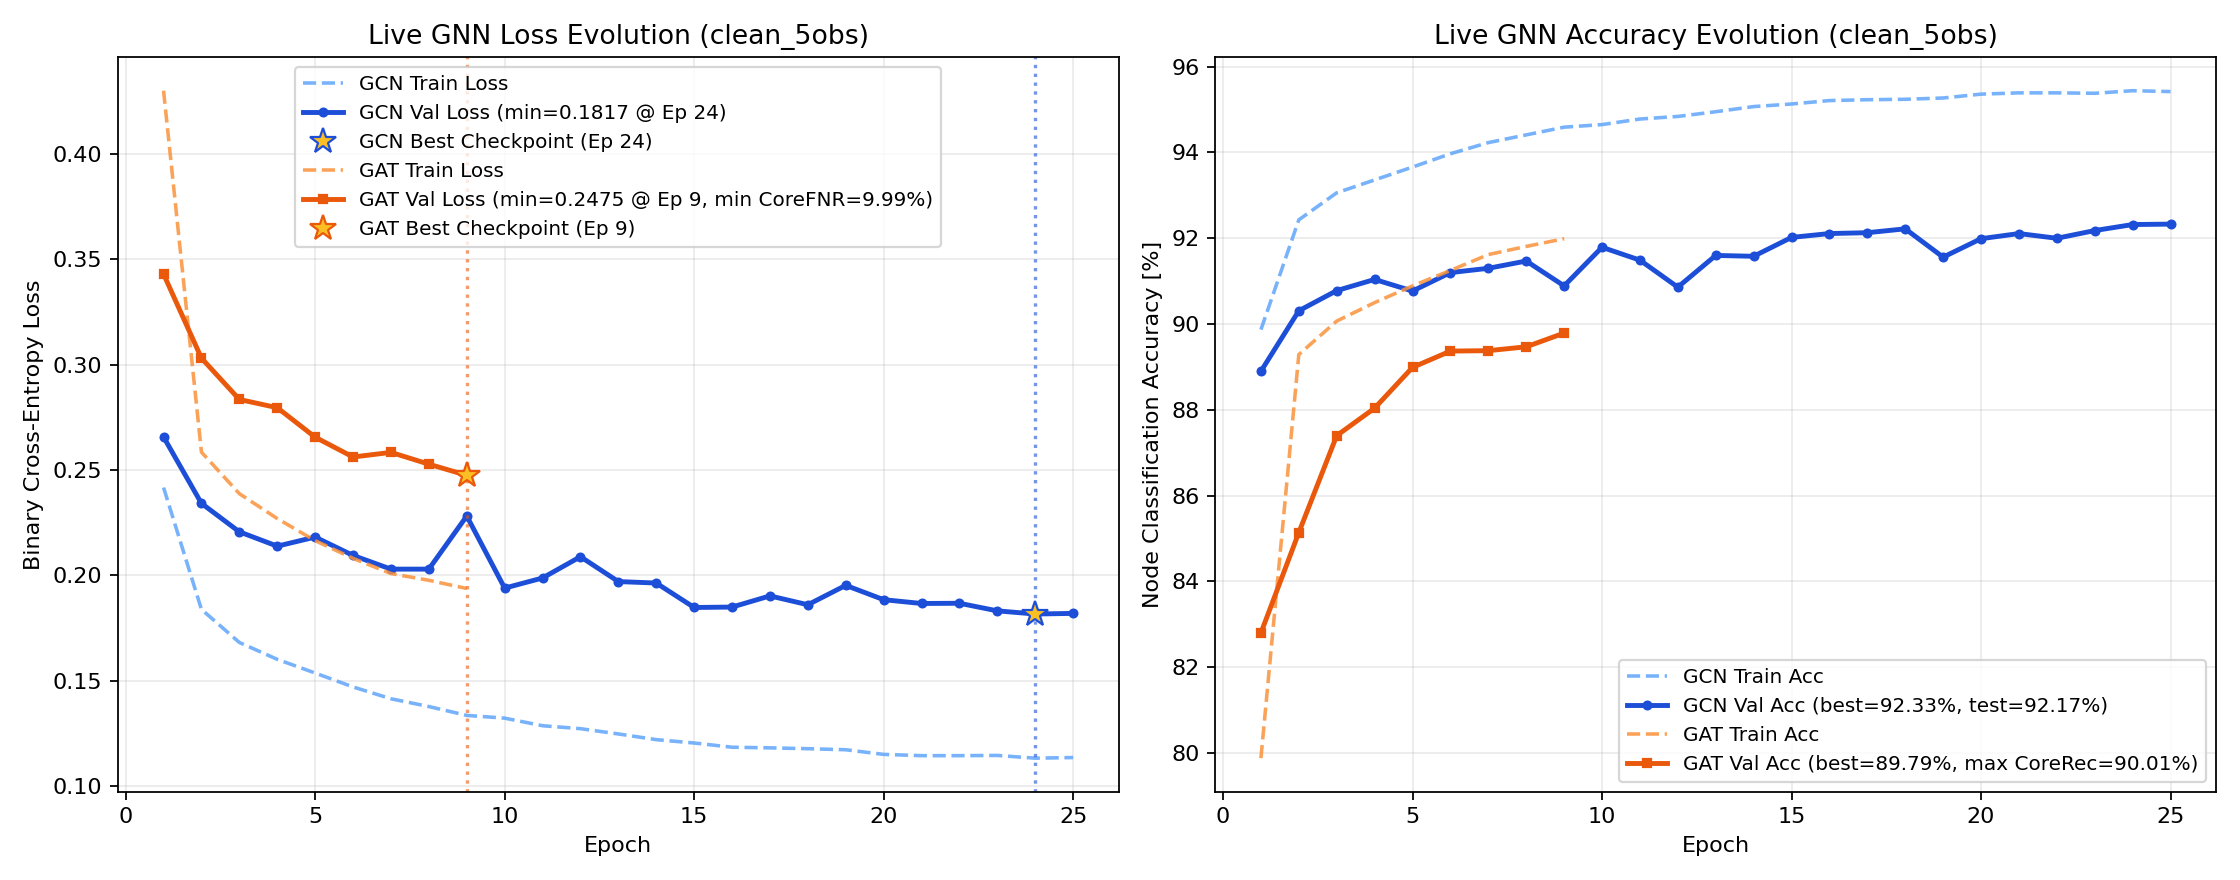
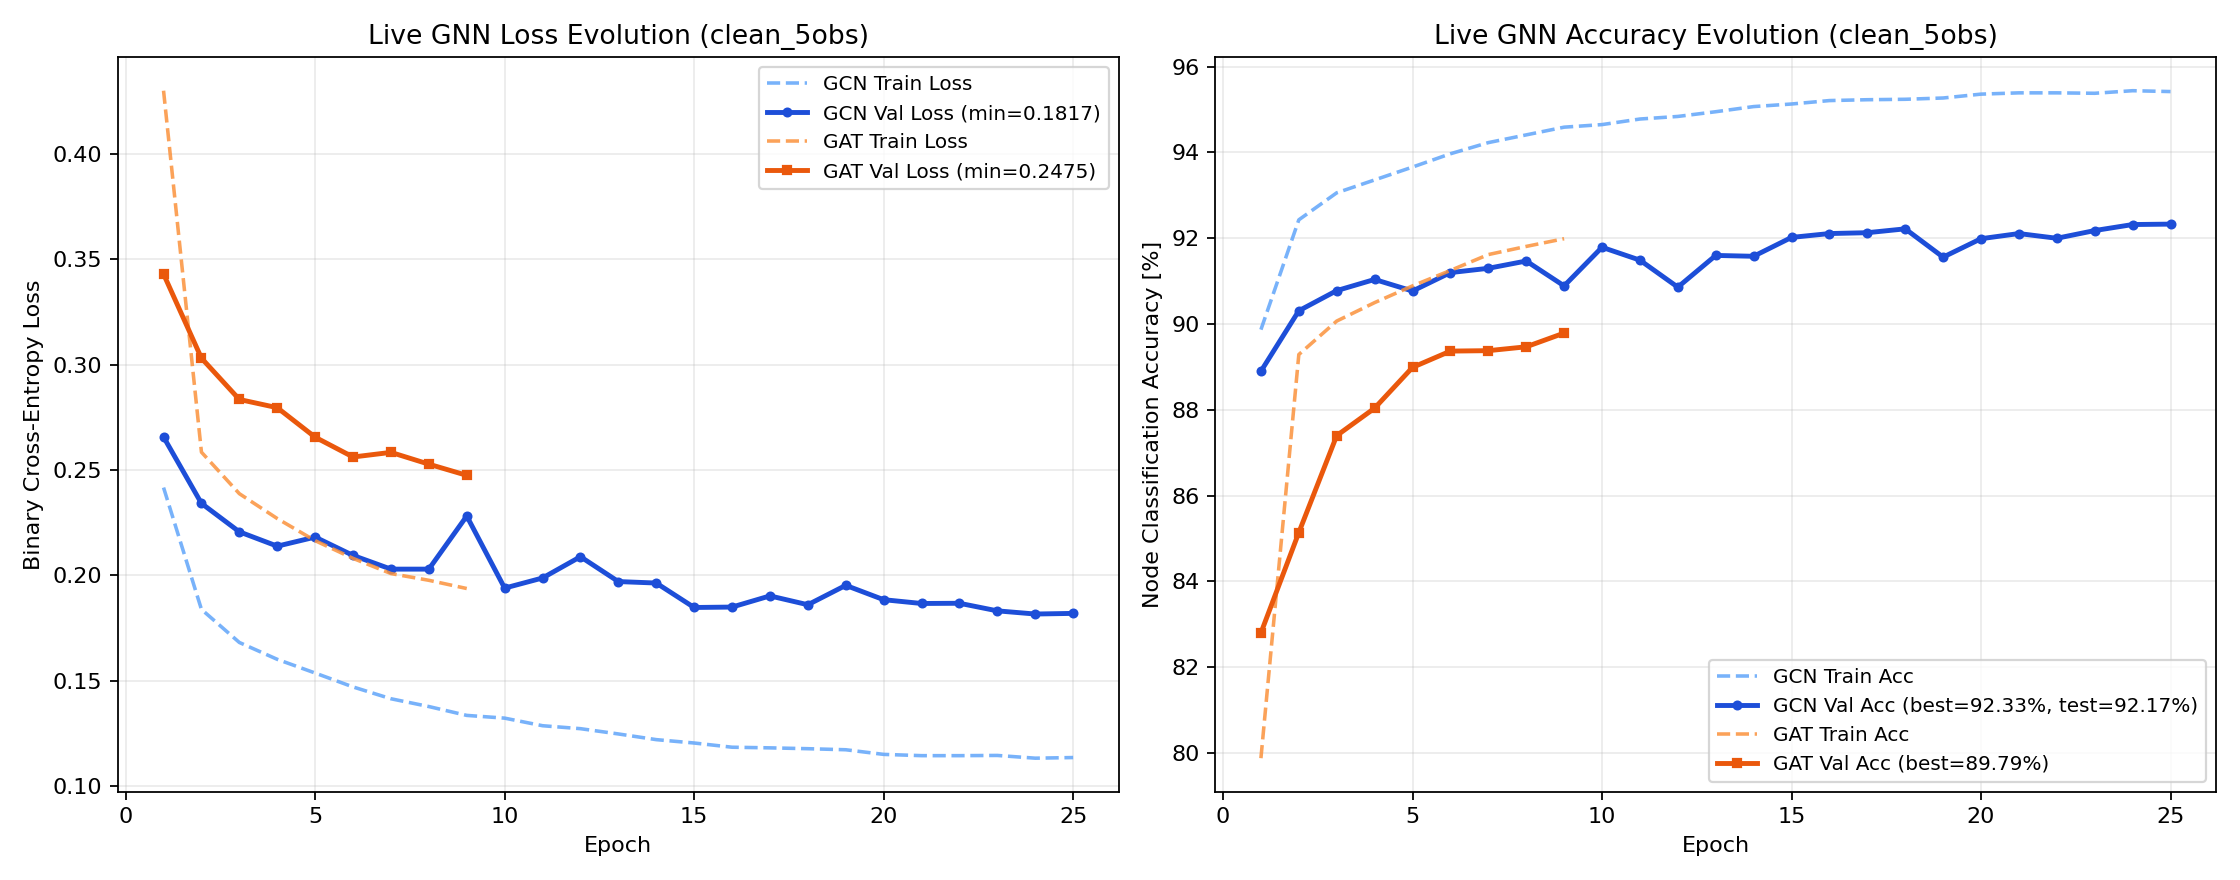
Update Study 2 live status and figures (2026-11-12 21:45)

diff --git a/LIVE_STATUS.md b/LIVE_STATUS.md
@@ -1,44 +1,30 @@
 # Live Pipeline Status on Jed
 
 ```text
-[2026-11-12 21:40:22] Study 2 Pipeline Status on Jed
+[2026-11-12 21:45:10] Study 2 Pipeline Status on Jed
 - Step 1 (Plummer ICs): 81 / 81 ready
 - Step 2 (SWIFT Runs): 81 / 81 completed (101 snapshots)
 - Step 3 (Observables): Labels=81/81 | Clean=81/81 | GaiaNoisy=81/81
 - Step 4 (5D Graphs): Clean=81/81 | GaiaNoisy=81/81
 - Step 5/6 Live GNN Training Progress:
-  * clean_5obs/training_metrics_gat_clean.log: Ep 009 | Train 0.1938 (91.99%) | Val 0.2475 (89.79%, Best=89.79%) | CoreFNR: 11.08% (min=9.99%) | Test=In progress
+  * clean_5obs/training_metrics_gat_clean.log: Ep 009 | Train 0.1938 (91.99%) | Val 0.2475 (89.79%, Best=89.79%) | Test=In progress
   * clean_5obs/training_metrics_gcn_clean.log: Ep 025 | Train 0.1136 (95.42%) | Val 0.1820 (92.33%, Best=92.33%) | Test=92.17%
   * legacy/clean_5obs_static_5rot/training_metrics_gcn_clean.log: Ep 025 | Train 0.1136 (95.42%) | Val 0.1820 (92.33%, Best=92.33%) | Test=92.17%
-- Saved Model Checkpoints (.pth): 8 mirrored in GNN-jed/trained_models/study2/weights/
 
 SLURM Queue:
 JOBID  PARTITION                   NAME   ST       TIME  NODES NODELIST(REASON)
       41146836   academic Study2_Step7_GCNStocha   PD       0:00      2 (Dependency)
 41146835_[0-4%   academic      Study2_Step6_4Obs   PD       0:00      2 (Dependency)
-      41146834   academic   Study2_Step5_Train81    R    6:56:06      2 jst[317,320]
+      41146834   academic   Study2_Step5_Train81    R    6:59:29      2 jst[317,320]
 ```
 
 ## Live Neural Network Training Metrics
 
-| Experiment | Architecture | Latest Epoch | Train Loss | Train Acc | Val Loss | Val Acc | Best Val Acc | Core FNR | Test Acc | Test F1 |
-| :--- | :---: | :---: | :---: | :---: | :---: | :---: | :---: | :---: | :---: | :---: |
-| `clean_5obs` | **GAT** | 9 | 0.1938 | 91.99% | 0.2475 | 89.79% | **89.79%** | 9.99% (val min) | **In progress** | - |
-| `clean_5obs` | **GCN** | 25 | 0.1136 | 95.42% | 0.1820 | 92.33% | **92.33%** | - | **92.17%** | 0.8886 |
-| `clean_5obs_static_5rot` | **GCN** | 25 | 0.1136 | 95.42% | 0.1820 | 92.33% | **92.33%** | - | **92.17%** | 0.8886 |
-
-## Saved Model Weights (`.pth` Checkpoints)
-
-| Checkpoint | Size | Experiment Path | Central Archive Mirror |
-| :--- | :---: | :--- | :--- |
-| `best_gat_clean.pth` | 361.2 KB | `GNN-jed/trained_models/study2/clean_5obs/best_gat_clean.pth` | `GNN-jed/trained_models/study2/weights/best_gat_clean.pth` |
-| `best_gat_clean_ep18_backup.pth` | 361.2 KB | `GNN-jed/trained_models/study2/clean_5obs/best_gat_clean_ep18_backup.pth` | `GNN-jed/trained_models/study2/weights/best_gat_clean_ep18_backup.pth` |
-| `best_gcn_clean.pth` | 120.0 KB | `GNN-jed/trained_models/study2/clean_5obs/best_gcn_clean.pth` | `GNN-jed/trained_models/study2/weights/best_gcn_clean.pth` |
-| `best_gat_clean_ep18_backup.pth` | 361.2 KB | `GNN-jed/trained_models/study2/legacy/clean_5obs_static_5rot/best_gat_clean_ep18_backup.pth` | `GNN-jed/trained_models/study2/weights/best_gat_clean_ep18_backup.pth` |
-| `best_gcn_clean.pth` | 120.0 KB | `GNN-jed/trained_models/study2/legacy/clean_5obs_static_5rot/best_gcn_clean.pth` | `GNN-jed/trained_models/study2/weights/best_gcn_clean.pth` |
-| `best_gat_clean.pth` | 361.2 KB | `GNN-jed/trained_models/study2/legacy/weights/best_gat_clean.pth` | `GNN-jed/trained_models/study2/weights/best_gat_clean.pth` |
-| `best_gat_clean_ep18_backup.pth` | 361.2 KB | `GNN-jed/trained_models/study2/legacy/weights/best_gat_clean_ep18_backup.pth` | `GNN-jed/trained_models/study2/weights/best_gat_clean_ep18_backup.pth` |
-| `best_gcn_clean.pth` | 120.0 KB | `GNN-jed/trained_models/study2/legacy/weights/best_gcn_clean.pth` | `GNN-jed/trained_models/study2/weights/best_gcn_clean.pth` |
+| Experiment | Architecture | Latest Epoch | Train Loss | Train Acc | Val Loss | Val Acc | Best Val Acc | Test Acc | Test F1 |
+| :--- | :---: | :---: | :---: | :---: | :---: | :---: | :---: | :---: | :---: |
+| `clean_5obs` | **GAT** | 9 | 0.1938 | 91.99% | 0.2475 | 89.79% | **89.79%** | **In progress** | - |
+| `clean_5obs` | **GCN** | 25 | 0.1136 | 95.42% | 0.1820 | 92.33% | **92.33%** | **92.17%** | 0.8886 |
+| `clean_5obs_static_5rot` | **GCN** | 25 | 0.1136 | 95.42% | 0.1820 | 92.33% | **92.33%** | **92.17%** | 0.8886 |
 
 ## Real-Time GNN Learning Curves (Loss & Accuracy Evolution)
 
